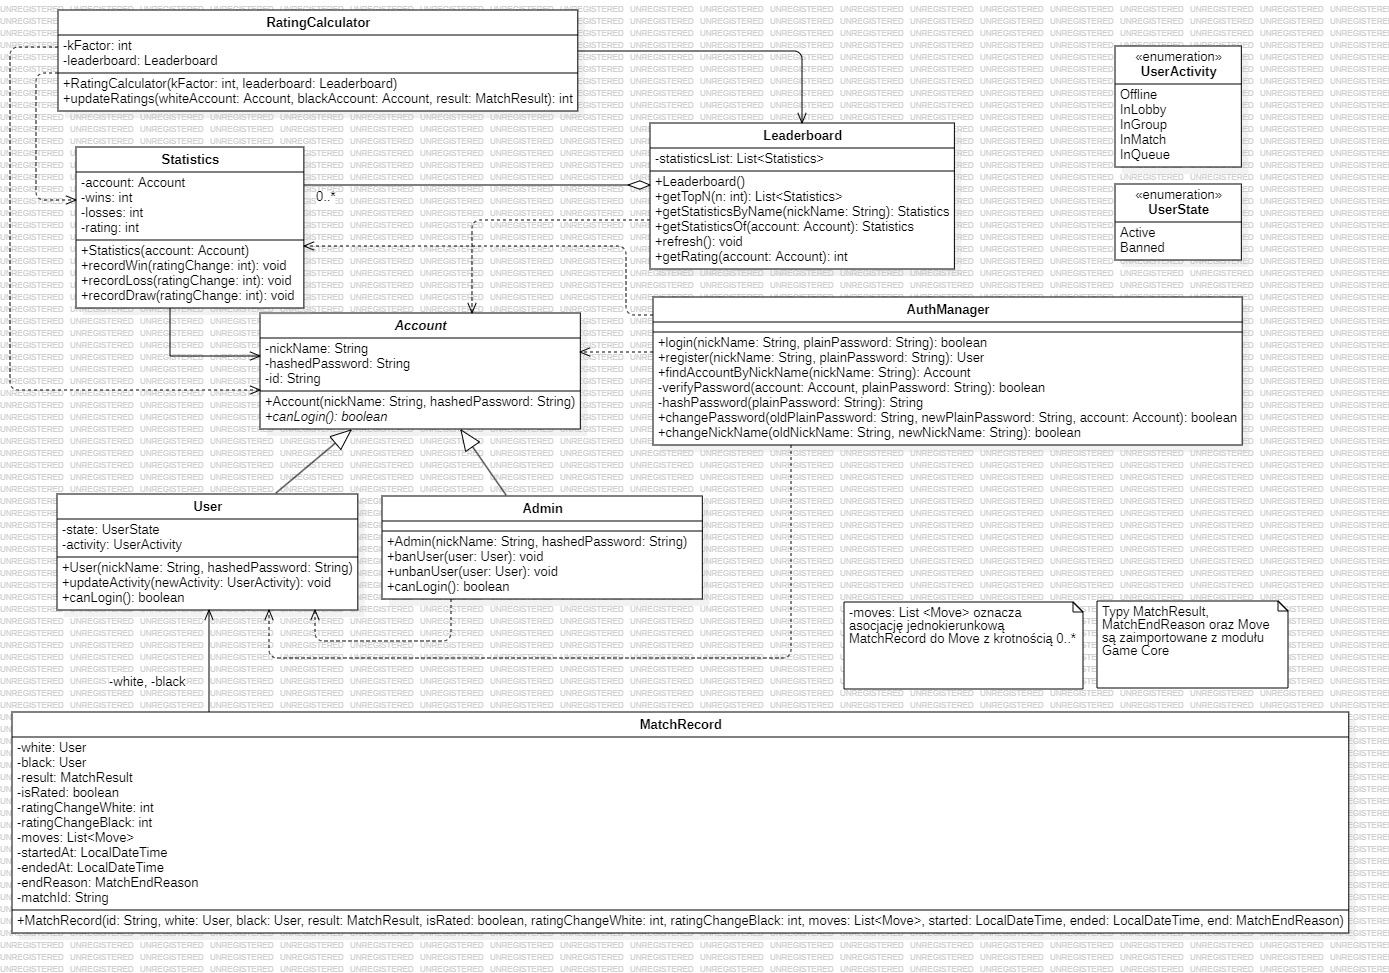
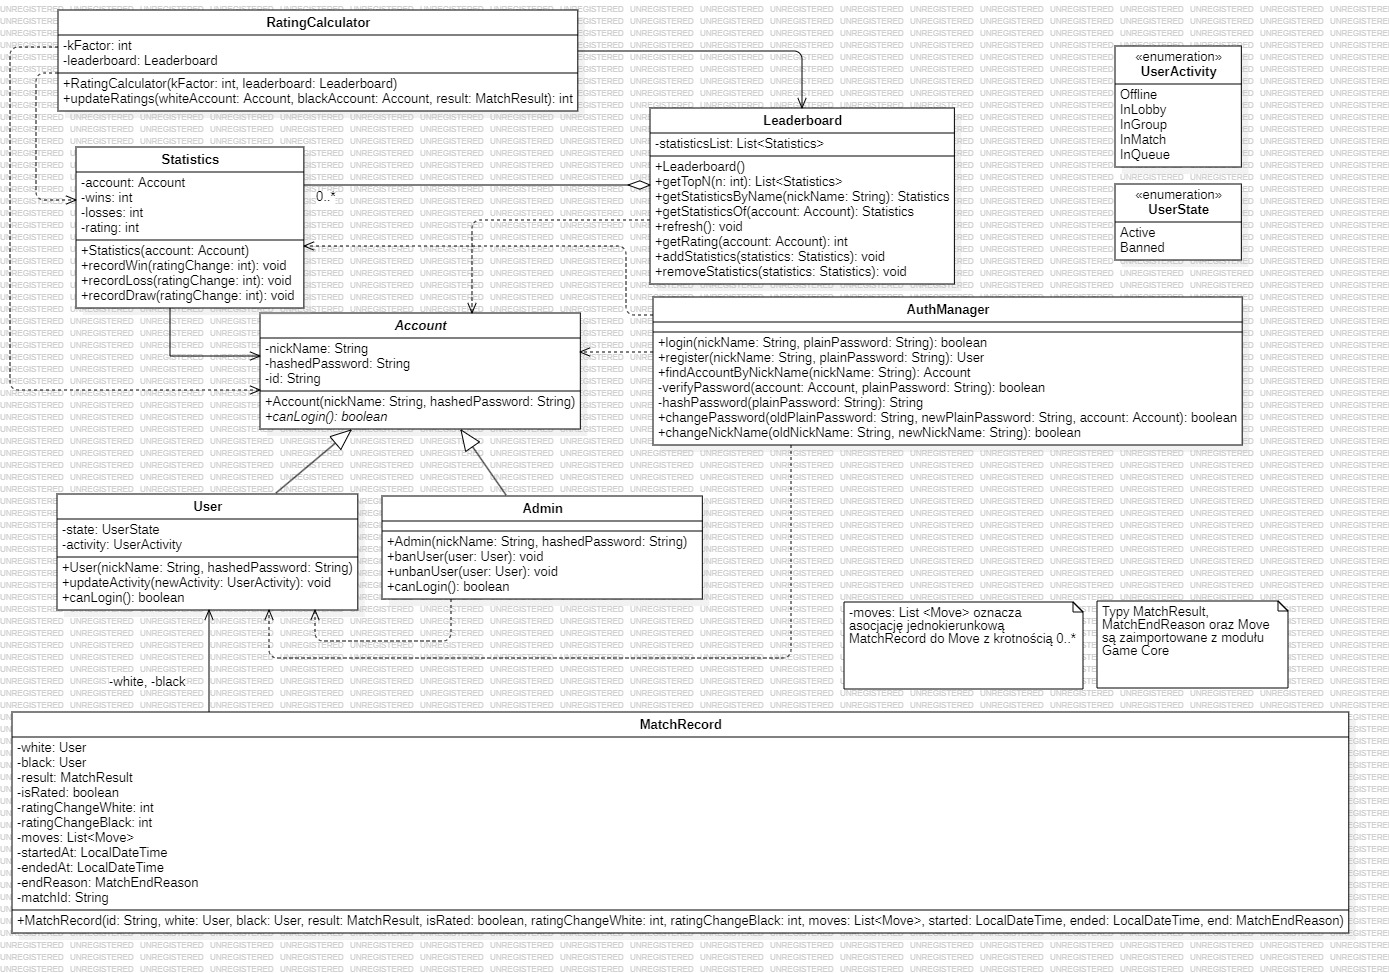
fixed actual interfaces from being a class, added compositions to owners classes constructors

Changed region(s): [[0.4644, 0.0925, 0.6811, 0.3083]]

diff --git a/Gomoku/src/main/java/Match/MatchListener.java b/Gomoku/src/main/java/Match/MatchListener.java
@@ -9,44 +9,21 @@ import java.util.*;
 /**
  * 
  */
-public class MatchListener {
-
-    /**
-     * Default constructor
-     */
-    public MatchListener() {
-    }
-
-
-
-    /**
-     * @param match 
-     * @param move 
-     * @return
-     */
-    public void onMoveMade(Match match, Move move) {
-        // TODO implement here
-
-    }
+public interface MatchListener {
+    public void onMoveMade(Match match, Move move);
 
     /**
      * @param match 
      * @param status 
      * @return
      */
-    public void onStatusChanged(Match match, MatchStatus status) {
-        // TODO implement here
-
-    }
+    public void onStatusChanged(Match match, MatchStatus status);
 
     /**
      * @param match 
      * @param result 
      * @return
      */
-    public void onMatchFinished(Match match, MatchResult result) {
-        // TODO implement here
-
-    }
+    public void onMatchFinished(Match match, MatchResult result);
 
 }

diff --git a/Gomoku/src/main/java/Match/ComputerPlayer.java b/Gomoku/src/main/java/Match/ComputerPlayer.java
@@ -35,7 +35,14 @@ public class ComputerPlayer extends Player {
      * @param difficulty
      */
     public ComputerPlayer(ColorType color, Difficulty difficulty) {
-        // TODO implement here
+        MoveStrategy strategy = new MoveStrategy() {
+            @Override
+            public Move chooseMove(Board board, ColorType color) {
+                return null;
+            }
+        }; // composition
+        this.strategy = strategy;
+
     }
 
     /**

diff --git a/Gomoku/src/main/java/AI/MoveStrategy.java b/Gomoku/src/main/java/AI/MoveStrategy.java
@@ -10,22 +10,6 @@ import java.util.*;
 /**
  * 
  */
-public class MoveStrategy {
-
-    /**
-     * Default constructor
-     */
-    public MoveStrategy() {
-    }
-
-    /**
-     * @param board 
-     * @param color 
-     * @return
-     */
-    public Move chooseMove(Board board, ColorType color) {
-        // TODO implement here
-        return null;
-    }
-
+public interface MoveStrategy {
+    public Move chooseMove(Board board, ColorType color);
 }

diff --git a/Gomoku/src/main/java/LobbyAndChats/MatchChat.java b/Gomoku/src/main/java/LobbyAndChats/MatchChat.java
@@ -5,6 +5,7 @@ import GameCore.Move;
 import Match.Match;
 import Match.MatchStatus;
 import UsersAuthAndStatistics.Account;
+import Match.MatchListener;
 
 import java.io.*;
 import java.util.*;
@@ -12,7 +13,7 @@ import java.util.*;
 /**
  * 
  */
-public class MatchChat extends Chat {
+public class MatchChat extends Chat implements MatchListener {
 
     /**
      * Default constructor

diff --git a/Gomoku/src/main/java/LobbyAndChats/Lobby.java b/Gomoku/src/main/java/LobbyAndChats/Lobby.java
@@ -5,6 +5,7 @@ import GameCore.Move;
 import Match.Match;
 import UsersAuthAndStatistics.Account;
 import Match.MatchStatus;
+import Match.MatchListener;
 
 import java.io.*;
 import java.util.*;
@@ -12,7 +13,7 @@ import java.util.*;
 /**
  * 
  */
-public class Lobby {
+public class Lobby implements MatchListener {
 
 //    /**
 //     * Default constructor

diff --git a/Gomoku/src/main/java/Match/RandomMatchMaker.java b/Gomoku/src/main/java/Match/RandomMatchMaker.java
@@ -40,7 +40,9 @@ public class RandomMatchMaker {
      * @param leaderboard
      */
     public RandomMatchMaker(SpectateManager spectateManager, Leaderboard leaderboard) {
-        // TODO implement here
+        this.currentQueue = new Queue();
+        this.spectateManager = spectateManager;
+        this.leaderboard = leaderboard;
     }
 
     /**

diff --git a/Gomoku/src/main/java/Match/Match.java b/Gomoku/src/main/java/Match/Match.java
@@ -104,7 +104,9 @@ public abstract class Match {
      * @param sMr
      */
     public Match(Duration timePerRound, boolean isRated, SpectateManager sMr) {
-        // TODO implement here
+        this.board = new Board();
+        timer = new Timer(timePerRound);
+        playersInMatch = new ArrayList<>(2);
     }
 
     /**

diff --git a/Gomoku/src/main/java/UsersAuthAndStatistics/Leaderboard.java b/Gomoku/src/main/java/UsersAuthAndStatistics/Leaderboard.java
@@ -72,4 +72,12 @@ public class Leaderboard {
         return 0;
     }
 
+    public void addStatistics(Statistics statistics) {
+
+    }
+
+    public void removeStatistics(Statistics statistics) {
+
+    }
+
 }

diff --git a/Gomoku/src/main/java/Match/SpectateManager.java b/Gomoku/src/main/java/Match/SpectateManager.java
@@ -10,7 +10,7 @@ import java.util.*;
 /**
  * 
  */
-public class SpectateManager {
+public class SpectateManager implements MatchListener{
 
 //    /**
 //     * Default constructor
